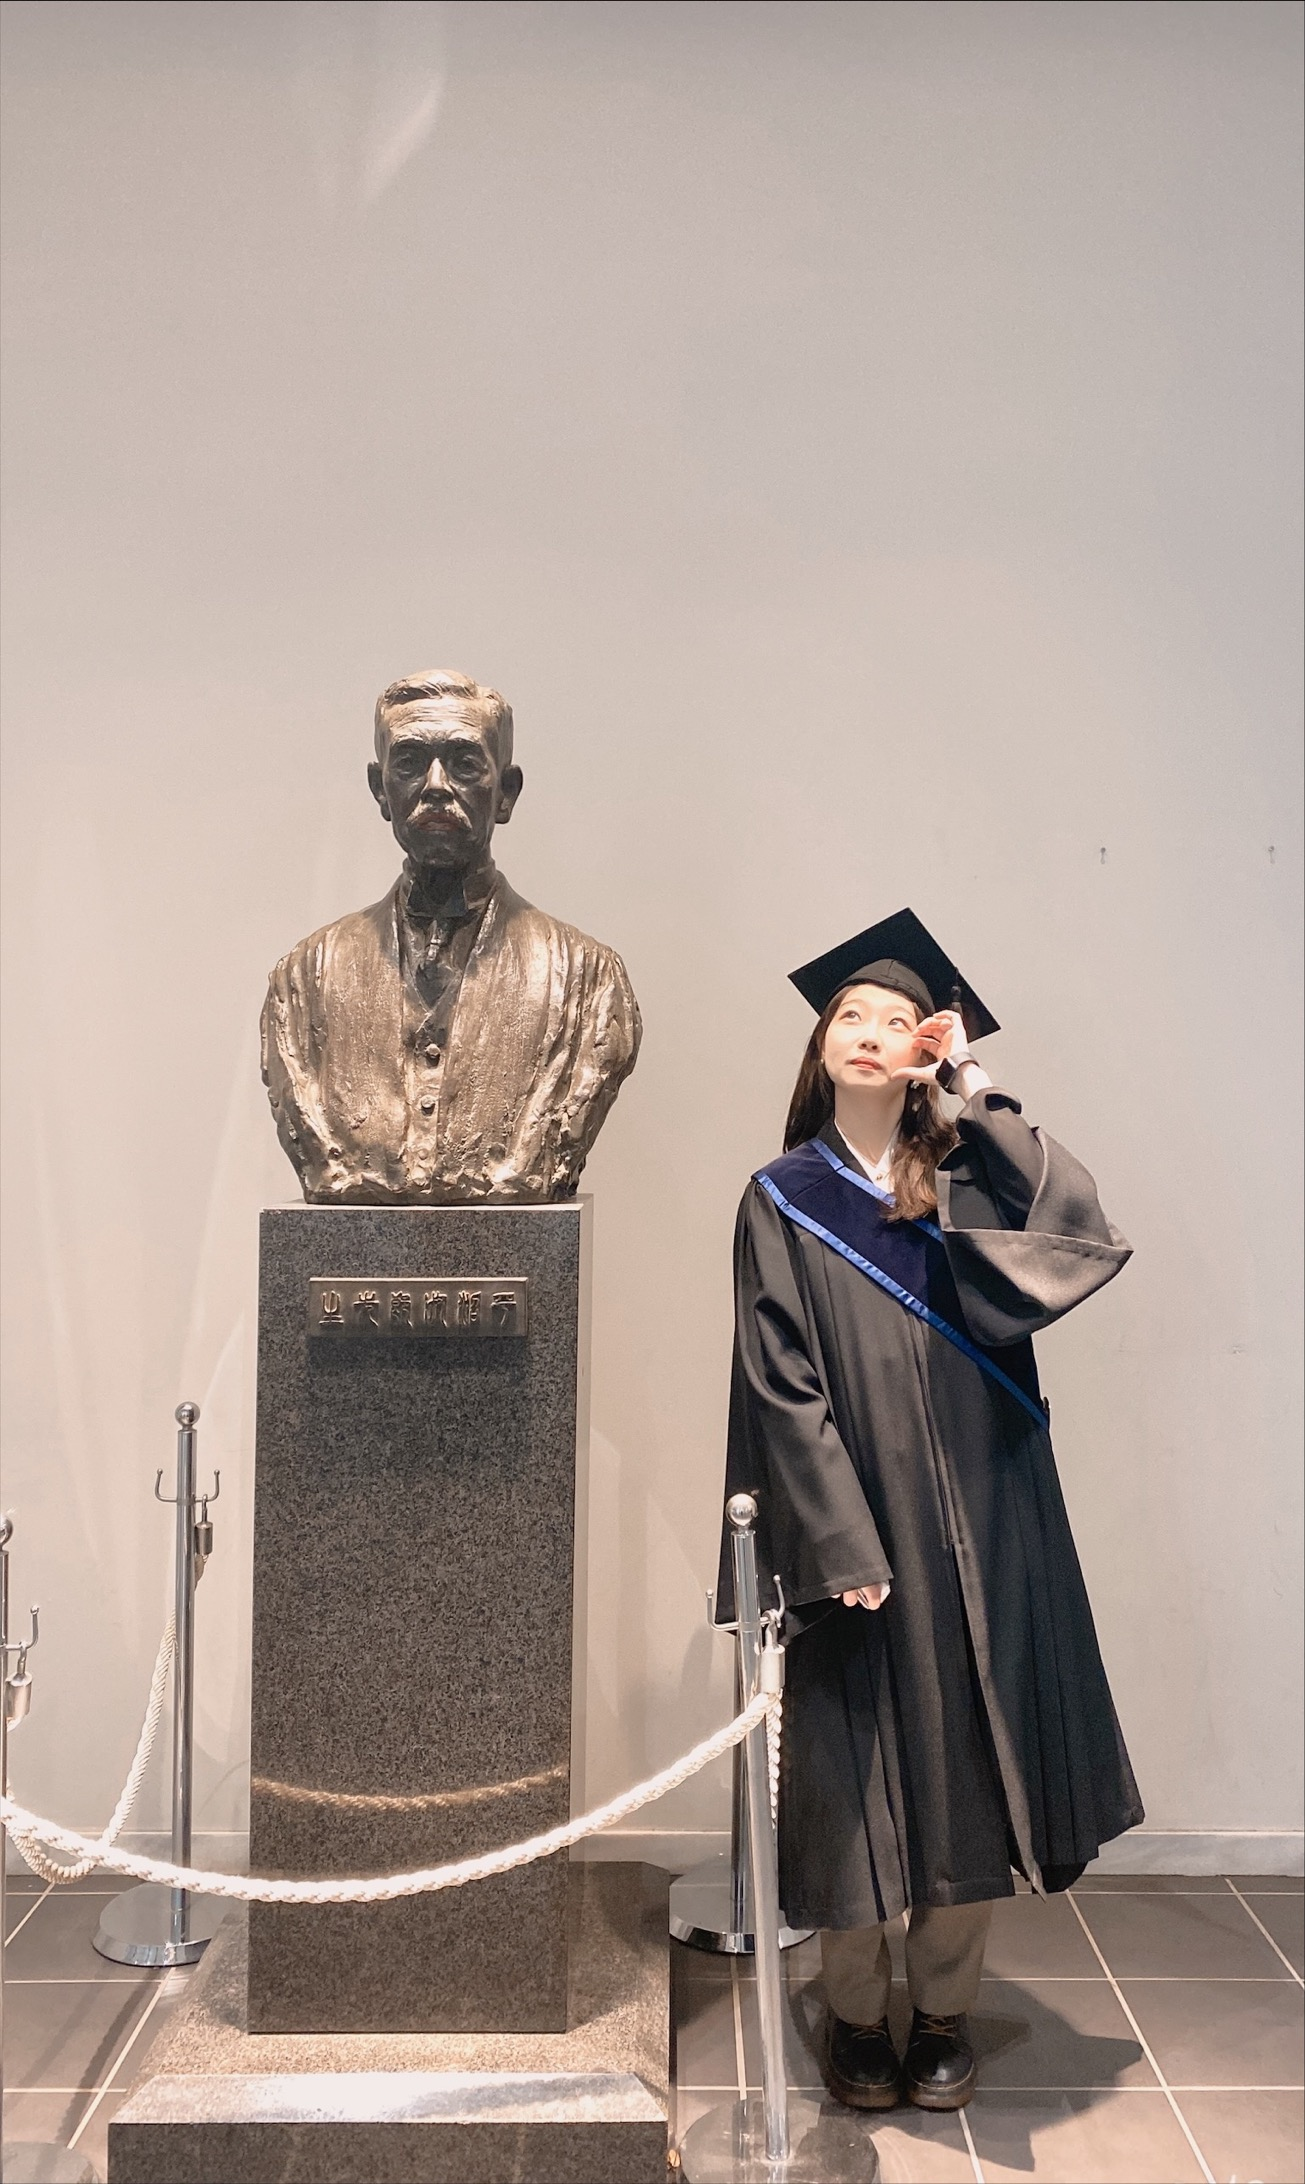
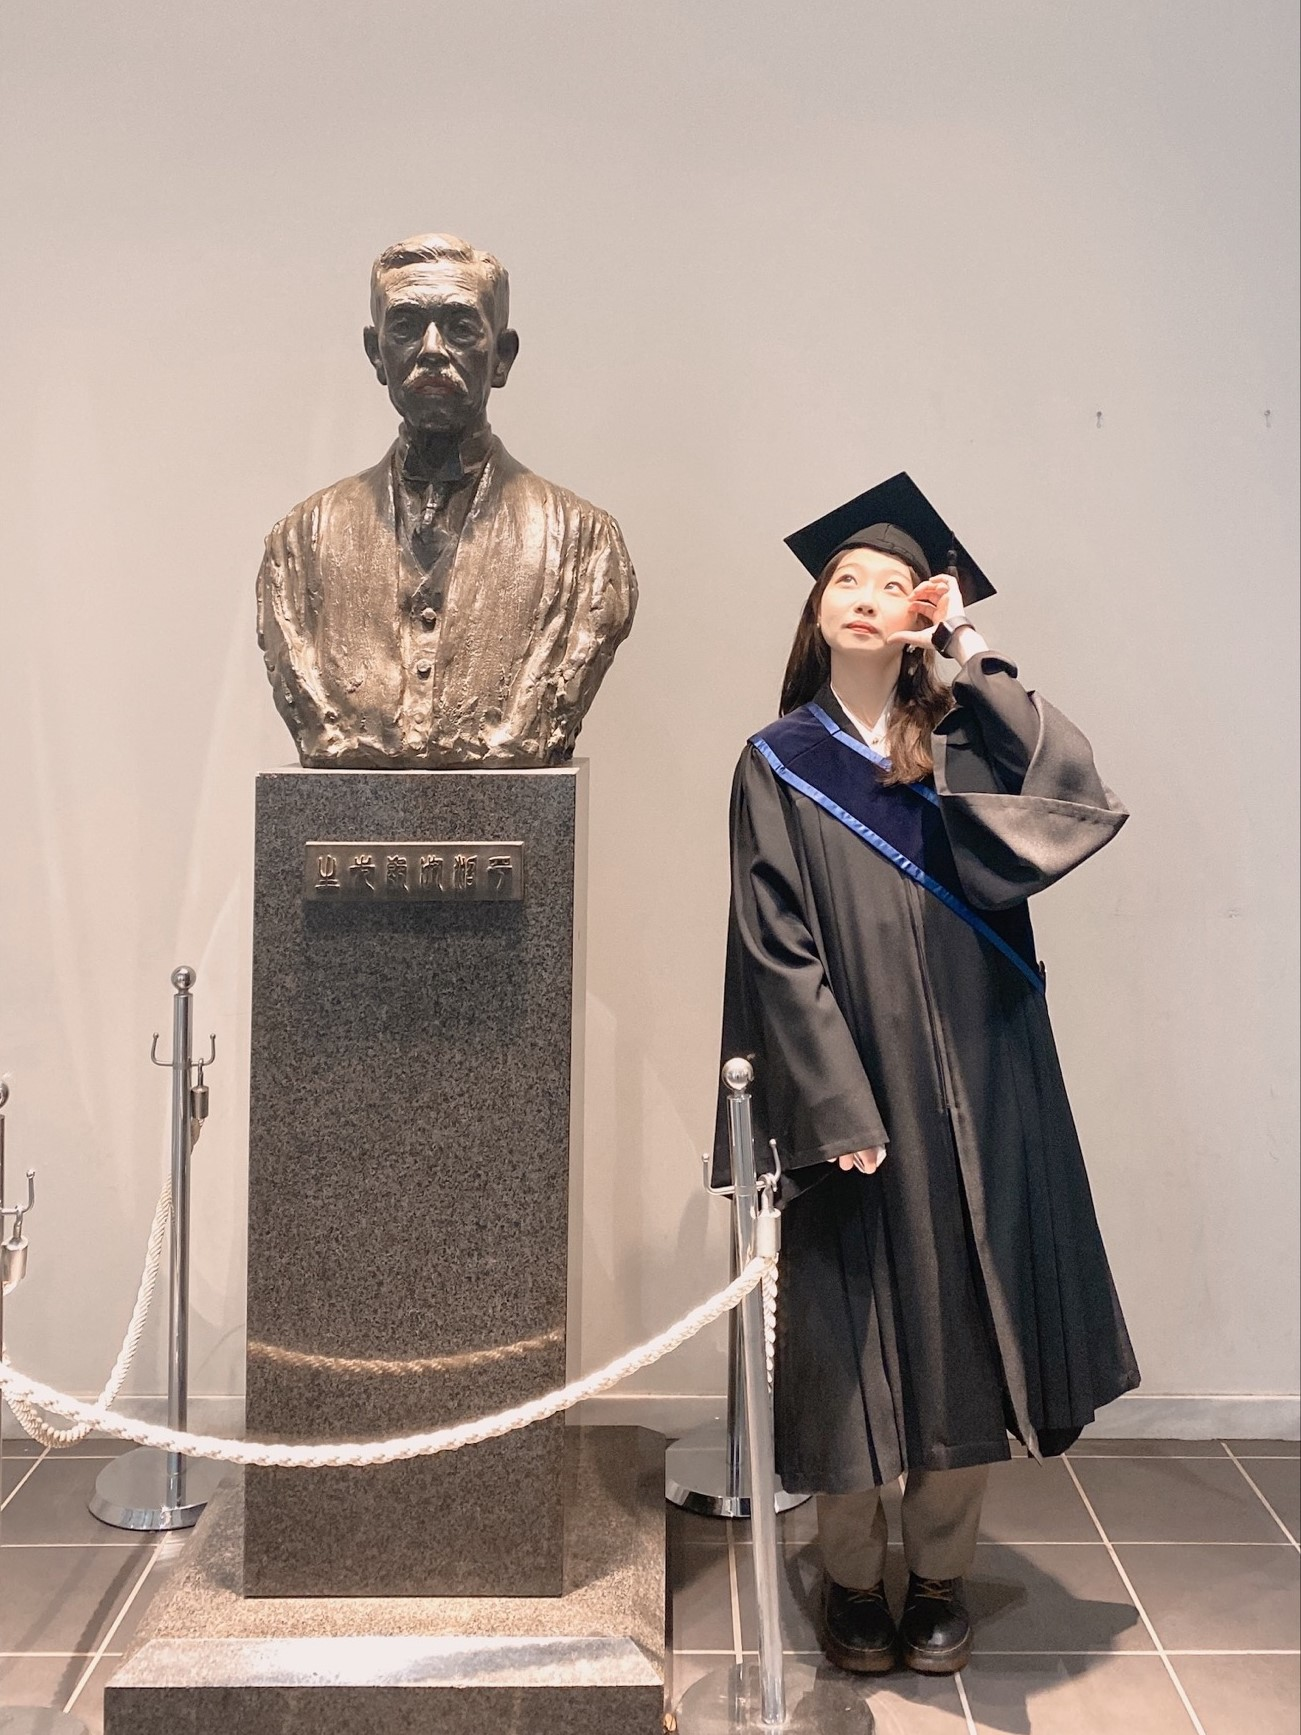
ngo写真追加

diff --git a/index.html b/index.html
@@ -70,7 +70,7 @@
                             <div class="portfolio-item-caption d-flex align-items-center justify-content-center h-100 w-100">
                                 <div class="portfolio-item-caption-content text-center text-white"><i class="fas fa-plus fa-3x"></i></div>
                             </div>
-                            <img class="img-fluid" src="assets/img/portfolio/oginosan.png" alt="..." />
+                            <img class="img-fluid" src="assets/img/portfolio/oginosan.png" alt="..." width="500" height="600"/>
                         </div>
                     </div>
                     <!-- Portfolio Item 2 Nishant-->
@@ -79,7 +79,7 @@
                             <div class="portfolio-item-caption d-flex align-items-center justify-content-center h-100 w-100">
                                 <div class="portfolio-item-caption-content text-center text-white"><i class="fas fa-plus fa-3x"></i></div>
                             </div>
-                            <img class="img-fluid" src="assets/img/portfolio/nishant.jpg" alt="..." />
+                            <img class="img-fluid" src="assets/img/portfolio/nishant.jpg" alt="..." width="500" height="600"/>
                         </div>
                     </div>
                     <!-- Portfolio Item 3 Wang Bingzi-->
@@ -88,7 +88,7 @@
                             <div class="portfolio-item-caption d-flex align-items-center justify-content-center h-100 w-100">
                                 <div class="portfolio-item-caption-content text-center text-white"><i class="fas fa-plus fa-3x"></i></div>
                             </div>
-                            <img class="img-fluid" src="assets/img/portfolio/wangsan.png" alt="..." />
+                            <img class="img-fluid" src="assets/img/portfolio/wangsan.png" alt="..." width="500" height="600"/>
                         </div>
                     </div>
                     <!-- Portfolio Item 4 Ngo Nguyen Chi Trung-->
@@ -97,7 +97,7 @@
                             <div class="portfolio-item-caption d-flex align-items-center justify-content-center h-100 w-100">
                                 <div class="portfolio-item-caption-content text-center text-white"><i class="fas fa-plus fa-3x"></i></div>
                             </div>
-                            <img class="img-fluid" src="assets/img/portfolio/teamkuma_logo.png" alt="..." />
+                            <img class="img-fluid" src="assets/img/portfolio/ngosan.png " alt="..." />
                         </div>
                     </div>
                     <!-- Portfolio Item 5 Kanda Natsu-->
@@ -295,7 +295,7 @@
                                         <div class="divider-custom-line"></div>
                                     </div>
                                     <!-- Portfolio Modal - Image-->
-                                    <img class="img-fluid rounded mb-5" src="assets/img/portfolio/teamkuma_logo.png" alt="..." />
+                                    <img class="img-fluid rounded mb-5" src="assets/img/portfolio/ngosan.png" alt="..." />
                                     <!-- Portfolio Modal - Text-->
                                     <p class="mb-4">Member Name</p>
                                     <button class="btn btn-primary" data-bs-dismiss="modal">
